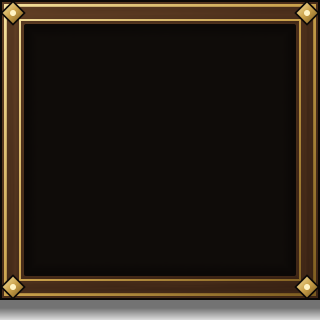
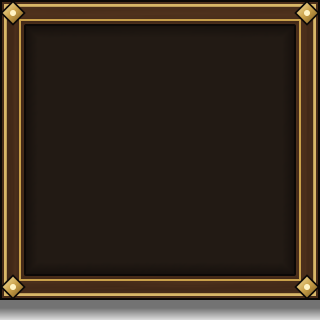
m1.5: fix panel leather/corners bake, modal auto-height, ribbon sizing, compass wiggle, static menu map

diff --git a/tools/ui_bake/pieces_frames.py b/tools/ui_bake/pieces_frames.py
@@ -61,13 +61,14 @@ def _walnut_band_frame(
 
     out = np.zeros((h * s, w * s, 4), dtype=np.float64)
 
-    # Soft drop shadow below/around the frame box
-    sd_sh = sd_box(lx, ly, cx, cy + 4.0, hw, hh)
-    sh_alpha = np.clip(1.0 - np.maximum(sd_sh, 0.0) / 8.0, 0.0, 1.0) * 0.55
-    out = blend_rgb_mask(out, np.array([0.0, 0.0, 0.0]), sh_alpha)
-
     sd_outer = sd_box(lx, ly, cx, cy, hw, hh)
     sd_inner = sd_box(lx, ly, cx, cy, hw - band_w, hh - band_w)
+
+    # Outer drop shadow strictly outside the frame box (never darkening the panel interior)
+    outer_cov = coverage(sd_outer, s)
+    sd_sh = sd_box(lx, ly, cx, cy + 4.0, hw, hh)
+    sh_alpha = np.clip(1.0 - np.maximum(sd_sh, 0.0) / 8.0, 0.0, 1.0) * 0.55 * (1.0 - outer_cov)
+    out = blend_rgb_mask(out, np.array([0.0, 0.0, 0.0]), sh_alpha)
 
     # Wood grain: horizontal on top/bottom bands, turned 90 deg on left/right vertical bands
     wood_h = walnut_rgb(lx, ly, tokens, vertical=False, period_x=96, period_y=96, seed=11)
@@ -78,25 +79,36 @@ def _walnut_band_frame(
     is_vert = dx_edge < dy_edge
     wood = np.where(is_vert[..., None], wood_v, wood_h)
 
-    # Diagonal walnut shading from #7a5230 -> WOOD -> WOOD_DARK across the box
-    diag_t = np.clip(((lx - x0) + (ly - y0)) / ((x1 - x0) + (y1 - y0)), 0.0, 1.0)
-    wood_tint = sample_ramp(
-        diag_t,
-        [(0.0, parse_hex_color("#7a5230")[:3]), (0.5, tokens.rgb("WOOD")), (1.0, tokens.rgb("WOOD_DARK"))],
-    )
+    # Tile-seamless walnut tone: constant along border strips (varying only by edge normal, never X/Y gradient)
+    # so 9-slice corners and middle strips meet with zero visible step or brightness seam.
+    edge_dist = np.minimum(dx_edge, dy_edge)
+    top_edge_t = np.clip(1.0 - (ly - y0) / max(1.0, band_w), 0.0, 1.0)
+    is_top_band = (ly - y0) <= dx_edge
+    bevel_t = np.where(is_top_band, top_edge_t * 0.35, 0.0)
+    # Slight warm highlight near outer rim of top border, dark edge rim along inner groove
+    wood_hi = np.asarray(parse_hex_color("#7a5230")[:3], dtype=np.float64)
+    wood_base = np.asarray(tokens.rgb("WOOD"), dtype=np.float64)
+    wood_dk = np.asarray(tokens.rgb("WOOD_DARK"), dtype=np.float64)
+    groove_t = np.clip((band_w - edge_dist) / band_w, 0.0, 1.0) * 0.25
+    wood_tint = wood_base * (1.0 - bevel_t[..., None]) + wood_hi * bevel_t[..., None]
+    wood_tint = wood_tint * (1.0 - groove_t[..., None]) + wood_dk * groove_t[..., None]
     wood = np.clip(0.55 * wood + 0.45 * wood_tint, 0.0, 1.0)
 
     # Band mask (outer minus inner)
-    outer_cov = coverage(sd_outer, s)
     inner_cov = coverage(sd_inner, s)
     band_cov = np.clip(outer_cov - inner_cov, 0.0, 1.0)
     out = blend_rgb_mask(out, wood, band_cov)
 
-    # Gilt fillets along outer (2.7px inside) and inner (10.0px inside) border
-    gilt_grad = sample_ramp(diag_t, [(0.0, tokens.rgb("BRASS_HI")), (0.5, tokens.rgb("BRASS")), (1.0, tokens.rgb("BRASS_LO"))])
+    # Seamless gilt fillets along outer (2.7px inside) and inner (10.0px inside) border
+    gilt_outer = (
+        0.35 * np.asarray(tokens.rgb("BRASS_HI"), dtype=np.float64)
+        + 0.65 * np.asarray(tokens.rgb("BRASS"), dtype=np.float64)
+    )
+    gilt_inner = np.asarray(tokens.rgb("BRASS"), dtype=np.float64)
     fillet_out = stroke_coverage(sd_outer, -2.7, 0.7, s)
     fillet_in = stroke_coverage(sd_outer, -10.0, 0.5, s)
-    out = blend_rgb_mask(out, gilt_grad, np.maximum(fillet_out, fillet_in))
+    out = blend_rgb_mask(out, gilt_outer, fillet_out)
+    out = blend_rgb_mask(out, gilt_inner, fillet_in)
 
     # 1px INK hairline on outer edge and inner edge of walnut band
     ink = np.asarray(tokens.rgb("INK"), dtype=np.float64)
@@ -162,8 +174,8 @@ def _render_panel_modal(s: int, tokens: TokenTable) -> np.ndarray:
     out[..., :3] = frame[..., :3] * sa + out[..., :3] * (1.0 - sa)
     out[..., 3:4] = np.clip(sa + out[..., 3:4] * (1.0 - sa), 0.0, 1.0)
 
-    # Quatrefoil bosses overhanging the 4 corners of the frame (24..168)
-    for bx, by in ((24.0, 24.0), (168.0, 24.0), (24.0, 168.0), (168.0, 168.0)):
+    # Quatrefoil bosses centered on the 13px walnut corner miters (24+6.5 .. 168-6.5), overhanging cleanly inside E=24
+    for bx, by in ((30.5, 30.5), (161.5, 30.5), (30.5, 161.5), (161.5, 161.5)):
         out = draw_quatrefoil_boss(out, lx, ly, bx, by, s, tokens)
     return (np.floor(np.clip(out, 0.0, 1.0) * 255.0 + 0.5)).astype(np.uint8)
 
